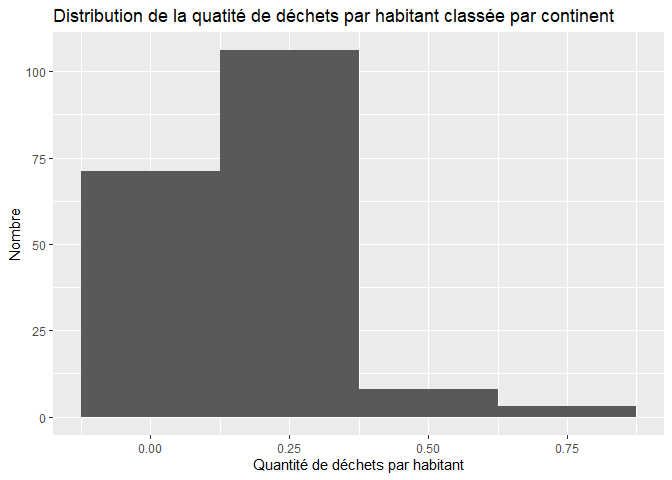
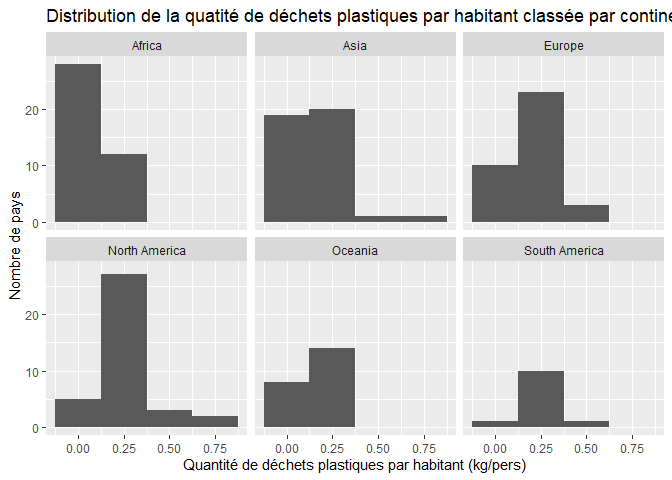
Exercice 1 possiblement complété

diff --git a/lab-02.md b/lab-02.md
@@ -46,14 +46,20 @@ plastic_waste <- plastic_waste %>%
 ### Exercise 1
 
 ``` r
-ggplot(plastic_waste, aes( x = plastic_waste_per_cap )) +
+ggplot(plastic_waste, aes(x = plastic_waste_per_cap )) +
   geom_histogram(binwidth = 0.25) +
-  labs(title = "Distribution de la quatité de déchets par habitant classée par continent",
-       x = "Quantité de déchets par habitant",
-       y = "Nombre") 
+  facet_wrap(~ continent) +
+  labs(title = "Distribution de la quatité de déchets plastiques par habitant classée par continent",
+       x = "Quantité de déchets plastiques par habitant (kg/pers)",
+       y = "Nombre de pays") 
 ```
 
-![](lab-02_files/figure-gfm/plastic-waste-continent-1.png)<!-- -->
+![](lab-02_files/figure-gfm/plastic-waste-continent-1.png)<!-- --> Avec
+la distribution suivante, on peut observer que la majorité des pays
+d’Asie, d’Europe, d’Amérique du Sud et d’Amérique du Nord semblent une
+quantité de déchets par habitant qui tourne autour de 0,25 kg/pers. On
+voit qu’en Afrique, la majorité des pays ont une quantité de déchets
+plastiques qui se retrouvent proche de 0,00 kg/pers.
 
 ### Exercise 2
 
